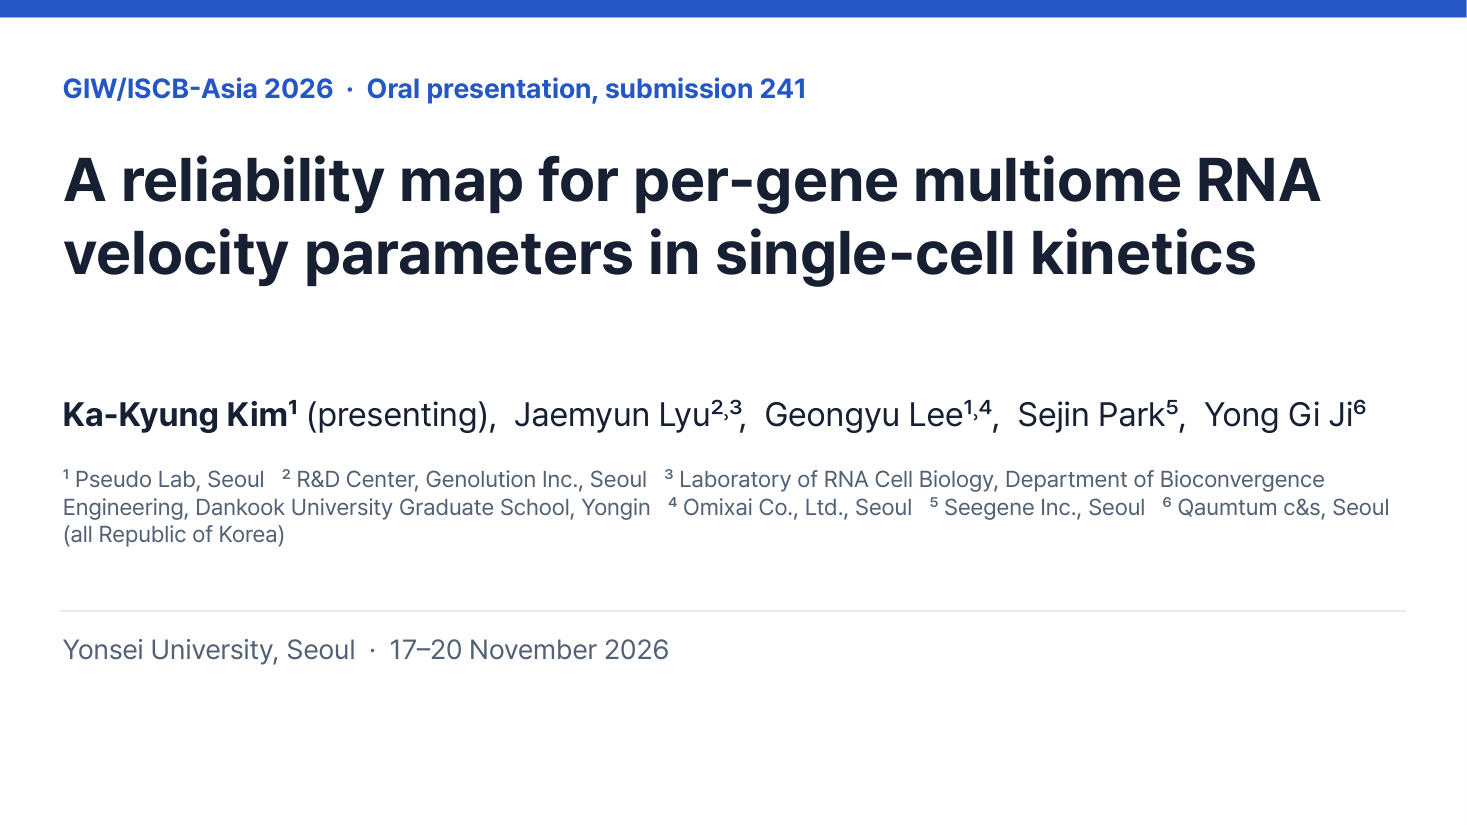
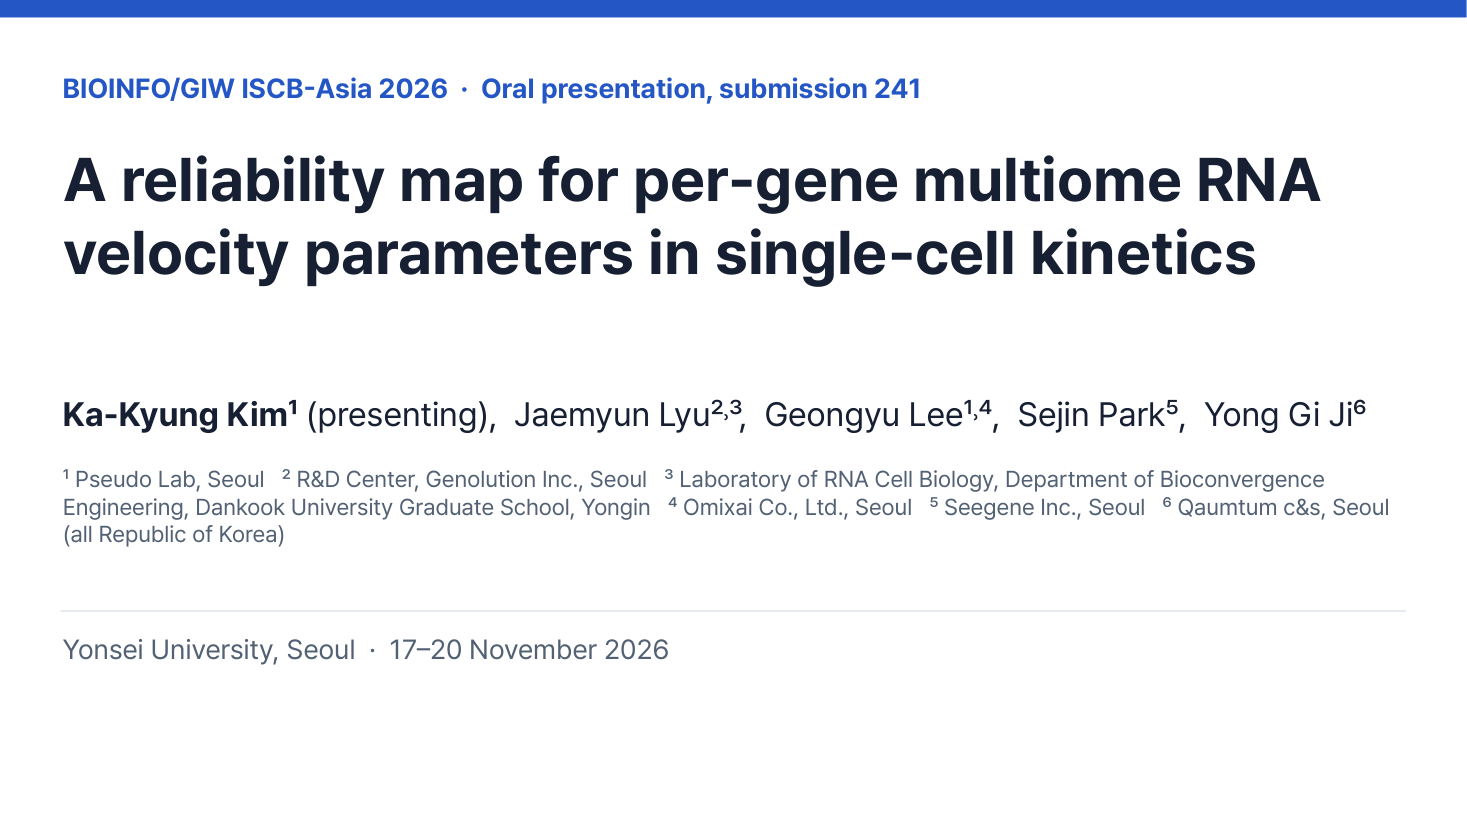
GIW talk: use official conference name BIOINFO/GIW ISCB-Asia 2026

Changed region(s): [[0.0307, 0.0909, 0.6442, 0.1212]]

diff --git a/pipeline/hspc-velocity-benchmark/manuscript/conf_giw2026/talk/make_plan.py b/pipeline/hspc-velocity-benchmark/manuscript/conf_giw2026/talk/make_plan.py
@@ -72,7 +72,7 @@ SLIDES = [
          explanation="Good morning. I am Ka-Kyung Kim. This is joint work with Jaemyun Lyu, Geongyu Lee, Sejin Park and Yong Gi Ji, carried out in Pseudo Lab, an open research community in Seoul. The talk is about a simple question: which numbers that RNA velocity methods give us per gene can we actually trust?",
          cue="Title and author line.",
          transition="Let me start with why that question matters.",
-         source="Talk based on the GIW/ISCB-Asia 2026 long abstract, submission 241."),
+         source="Talk based on the BIOINFO/GIW ISCB-Asia 2026 long abstract, submission 241."),
     dict(id="S01", title="Velocity methods emit per-gene numbers that we read as biology",
          purpose="Pose the question: which per-gene outputs are reliable enough to use as features?",
          claims=[], loc=["SRC01: Background and motivation"], layout="concept: data → model → four outputs → question", assets=[], sec=55, caveat=None,
@@ -229,11 +229,11 @@ def main():
     brief = {
         "presentation_type": "academic-conference-oral",
         "talk_minutes": 15, "qa_included": False, "qa_minutes": None, "timing_buffer_fraction": 0.1,
-        "audience": "genome informatics and computational biology researchers (GIW/ISCB-Asia 2026)",
+        "audience": "genome informatics and computational biology researchers (BIOINFO/GIW ISCB-Asia 2026)",
         "slide_language": "en", "notes_language": "en",
         "preferred_color": "#2457C5", "background_mode": "light", "aspect_ratio": "16:9",
         "font_family": "Pretendard (installed; Greek and math glyphs verified)",
-        "venue": "GIW/ISCB-Asia 2026, Yonsei University, Seoul, 17–20 November 2026; oral, submission 241",
+        "venue": "BIOINFO/GIW ISCB-Asia 2026, Yonsei University, Seoul, 17–20 November 2026; oral, submission 241",
         "mandatory_template": None,
         "required_disclosures": ["Acknowledgements and funding as in the manuscript draft"],
         "source_files": [s[1] for s in SOURCES],
@@ -275,7 +275,7 @@ def main():
     (HERE / "slide-plan.json").write_text(json.dumps(plan, indent=2, ensure_ascii=False), encoding="utf-8")
 
     main_s = [s for s in SLIDES if not s.get("backup")]
-    lines = ["# GIW/ISCB-Asia 2026 oral talk: outline", "",
+    lines = ["# BIOINFO/GIW ISCB-Asia 2026 oral talk: outline", "",
              f"Planned speaking time {sum(s['sec'] for s in main_s)} s of 900 s (target 810 s). Approval: waived by the user on 2026-10-25.", "",
              "| # | Title | Seconds | Evidence |", "|---|---|---|---|"]
     for s in SLIDES:

diff --git a/pipeline/hspc-velocity-benchmark/manuscript/conf_giw2026/talk/build_deck.py b/pipeline/hspc-velocity-benchmark/manuscript/conf_giw2026/talk/build_deck.py
@@ -1,4 +1,4 @@
-"""Build the GIW/ISCB-Asia 2026 oral talk (submission 241) from slide-plan.json.
+"""Build the BIOINFO/GIW ISCB-Asia 2026 oral talk (submission 241) from slide-plan.json.
 
 Titles and speaker notes come from slide-plan.json (written by make_plan.py). Numbers drawn
 natively on slides are copied from the verified sources listed in evidence-map.json; each block
@@ -164,7 +164,7 @@ s = prs.slides.add_slide(next(l for l in prs.slide_layouts if l.name == "Blank")
 s.background.fill.solid()
 s.background.fill.fore_color.rgb = color(T["background"])
 add_rect(s, 0, 0, W, 0.16, T["primary"], name="top-band")
-txt(s, "GIW/ISCB-Asia 2026  ·  Oral presentation, submission 241", M, 0.62, CW, 0.4, size=18,
+txt(s, "BIOINFO/GIW ISCB-Asia 2026  ·  Oral presentation, submission 241", M, 0.62, CW, 0.4, size=18,
     fill=T["primary_ink"], bold=True, name="venue")
 txt(s, plan_by_id["S00"]["title"], M, 1.25, CW, 1.9, size=40, bold=True, name="title")
 rich(s, [{"text": "Ka-Kyung Kim", "bold": True}, {"text": "¹ ", "bold": True},

diff --git a/pipeline/hspc-velocity-benchmark/manuscript/conf_giw2026/giw2026_longabstract.tex b/pipeline/hspc-velocity-benchmark/manuscript/conf_giw2026/giw2026_longabstract.tex
@@ -21,7 +21,7 @@
 \begin{center}
 {\large\bfseries A reliability map for per-gene multiome RNA velocity parameters in single-cell kinetics\par}
 \vspace{2pt}
-{\footnotesize\itshape GIW/ISCB-Asia 2026 --- oral track long abstract. Authors and affiliations withheld for blind review.\par}
+{\footnotesize\itshape BIOINFO/GIW ISCB-Asia 2026 --- oral track long abstract. Authors and affiliations withheld for blind review.\par}
 \end{center}
 \vspace{4pt}
 {\vspace{2pt}\centering

diff --git a/pipeline/hspc-velocity-benchmark/manuscript/conf_giw2026/talk/GIW2026_oral241_velocity_reliability_map.speaker-notes.ko.md b/pipeline/hspc-velocity-benchmark/manuscript/conf_giw2026/talk/GIW2026_oral241_velocity_reliability_map.speaker-notes.ko.md
@@ -1,4 +1,4 @@
-# 발표 노트 한국어판 (GIW/ISCB-Asia 2026, 구두발표 241)
+# 발표 노트 한국어판 (BIOINFO/GIW ISCB-Asia 2026, 구두발표 241)
 
 영어 노트를 옮긴 리허설용 번역본입니다. 실제 발표는 영어 노트를 따릅니다.
 
@@ -17,7 +17,7 @@
 제목과 저자 줄.
 
 출처와 주의점
-GIW/ISCB-Asia 2026 long abstract(제출 번호 241)를 바탕으로 한 발표입니다.
+BIOINFO/GIW ISCB-Asia 2026 long abstract(제출 번호 241)를 바탕으로 한 발표입니다.
 
 유형: 본 발표
 예상 시간(초): 25

diff --git a/pipeline/hspc-velocity-benchmark/manuscript/CONF_LONGABSTRACT_GIW2026_BIOP01.md b/pipeline/hspc-velocity-benchmark/manuscript/CONF_LONGABSTRACT_GIW2026_BIOP01.md
@@ -26,7 +26,7 @@ ATAC 셔플은 priming 정의로 다시 계산했다(scripts/p18_priming_recompu
 
 # A reliability map for per-gene multiome RNA velocity parameters in single-cell kinetics
 
-*(GIW/ISCB-Asia 2026 — oral track long abstract. Authors and affiliations withheld for blind review.)*
+*(BIOINFO/GIW ISCB-Asia 2026 — oral track long abstract. Authors and affiliations withheld for blind review.)*
 
 ## Background and motivation
 

diff --git a/pipeline/hspc-velocity-benchmark/manuscript/conf_giw2026/talk/qa-report.md b/pipeline/hspc-velocity-benchmark/manuscript/conf_giw2026/talk/qa-report.md
@@ -1,4 +1,4 @@
-# QA report: GIW/ISCB-Asia 2026 oral talk (submission 241)
+# QA report: BIOINFO/GIW ISCB-Asia 2026 oral talk (submission 241)
 
 Deck `GIW2026_oral241_velocity_reliability_map.pptx` (sha256 2da635bf0be3381d…), 13 main + 4 hidden backup slides, built 2026-10-25 with
 academic-conference-presentation skill v1.1.0. Renderer LibreOffice 26.2.5.2, python-pptx 1.0.2.

diff --git a/pipeline/hspc-velocity-benchmark/manuscript/conf_giw2026/talk/GIW2026_oral241_velocity_reliability_map.speaker-notes.md b/pipeline/hspc-velocity-benchmark/manuscript/conf_giw2026/talk/GIW2026_oral241_velocity_reliability_map.speaker-notes.md
@@ -13,7 +13,7 @@ Visual cue
 Title and author line.
 
 Source and caveats
-Talk based on the GIW/ISCB-Asia 2026 long abstract, submission 241.
+Talk based on the BIOINFO/GIW ISCB-Asia 2026 long abstract, submission 241.
 
 Type: main
 Estimated seconds: 25

diff --git a/pipeline/hspc-velocity-benchmark/manuscript/conf_giw2026/talk/README.md b/pipeline/hspc-velocity-benchmark/manuscript/conf_giw2026/talk/README.md
@@ -1,4 +1,4 @@
-# GIW/ISCB-Asia 2026 oral talk (submission 241)
+# BIOINFO/GIW ISCB-Asia 2026 oral talk (submission 241)
 
 Built 2026-10-25 with the academic-conference-presentation skill v1.1.0 (Geongyu Lee).
 

diff --git a/pipeline/hspc-velocity-benchmark/manuscript/conf_giw2026/talk/outline.md b/pipeline/hspc-velocity-benchmark/manuscript/conf_giw2026/talk/outline.md
@@ -1,4 +1,4 @@
-# GIW/ISCB-Asia 2026 oral talk: outline
+# BIOINFO/GIW ISCB-Asia 2026 oral talk: outline
 
 Planned speaking time 780 s of 900 s (target 810 s). Approval: waived by the user on 2026-10-25.
 
